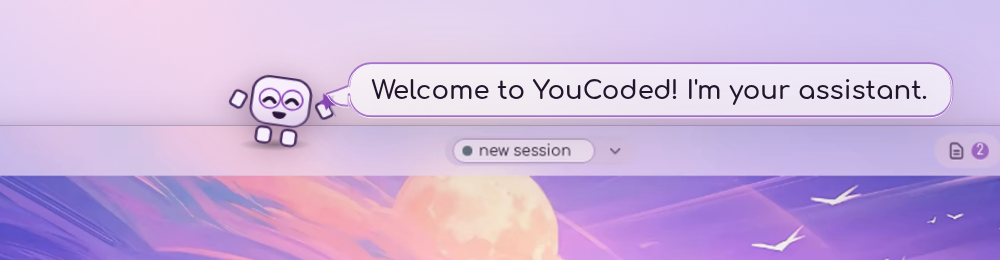
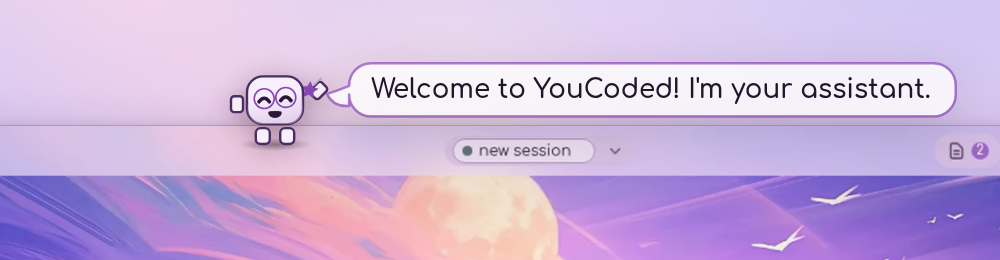
promo: round-four deck — the tail and frost, the four-bar conversations scene, the chess board, two stands moved
Claude-Session: https://claude.ai/code/session_01DfsGpRYprATRqGHC8LEush

Changed region(s): [[0.372, 0.2462, 0.961, 0.4615], [0.217, 0.2769, 0.372, 0.5846]]

diff --git a/scripts/promo/src/beats/Beat7.tsx b/scripts/promo/src/beats/Beat7.tsx
@@ -12,12 +12,12 @@ import { B, LEN, present, inWindow, type BeatModule } from './beat';
 // 2026-09-09: "the 'see status' scene should be a bit shorter and the bubble should be open only
 // while the session switcher is open/visible. then merge the other two into a single 'Tag, search,
 // and filter your previous conversations.' scene"):
-//   1. All Sessions → the switcher drops down with each session's status, and holds 2.8 s (the
-//      scene holds it open that long); the status line is said only while it is up (bars 0–1.6).
+//   1. All Sessions → the switcher drops down with each session's status, and holds 3.8 s (the
+//      scene holds it open that long); the status line is said only while it is up (bars 0–1.75).
 //   2. Resume → the browser with "econ" narrowing it → Organize → the tag → the note, one take at
-//      1.55× under the one line (bars 1.6–4). The drag along the strip is CUT (Destin: "drop this").
-const T_SEARCH = B('b7', 1.6), END = LEN('b7');
-const MENU_AT = 10;                                                                   // local frame the switcher is open
+//      1.55× under the one line (bars 1.75–4). The drag along the strip is CUT (Destin: "drop this").
+const T_SEARCH = B('b7', 1.75), END = LEN('b7');
+const MENU_AT = 6;                                                                   // local frame the switcher is open
 const S1_FROM = markFrame('promo-conversations', 'menu', 'end') - MENU_AT;
 // shot 1 must end BEFORE the Resume click: the line is up only while the switcher is
 if (S1_FROM + T_SEARCH > markFrame('promo-conversations', 'resume', 'start')) throw new Error('the switcher shot runs into the Resume click — hold the menu open longer in the scene');

diff --git a/scripts/promo/src/beats/Beat2.tsx b/scripts/promo/src/beats/Beat2.tsx
@@ -5,7 +5,7 @@ import { Label } from '../Label';
 import { CAPTIONS } from '../captions';
 import { perch } from '../layout';
 import { markFrame, assertClipCovers } from '../marks';
-import { B, LEN, present, inWindow, type BeatModule } from './beat';
+import { B, LEN, present, inWindow, feetAt, type BeatModule } from './beat';
 
 // Beat 2 (4 bars; sixth in the film since Destin's reorder of 2026-09-04): repeatable
 // prompts — the chips, in Cotton Candy Sky. The chip's click release lands three frames
@@ -26,7 +26,8 @@ const Beat2: React.FC = () => (
 //   the reply, top-left; its right edge is ~40 % across so the host stands beyond it
 const END = LEN('b2');
 const P2 = present('b2', [
-  { at: 40, say: 'Save repeatable prompts.', target: inWindow(0.355, 0.867), stand: 'above', face: 'welcome' },
+  // an explicit spot (2026-09-09): 'above' the chip put the feet ON the chip row at 1.35; it stands up-left of the Briefing chip and aims down at it
+  { at: 40, say: 'Save repeatable prompts.', spot: feetAt(0.3, 0.8), target: inWindow(0.355, 0.867), face: 'welcome' },
   // 0.40 → 0.52 at the 1.35 zoom (2026-09-09): the reply runs to half the window now and the host stood on its last words
   { at: 118, say: 'Or entire workflows. No annoying re-explanation needed.', target: inWindow(0.52, 0.16), stand: 'R', face: 'happy', until: END - 8 },
 ], 'cotton-candy-sky', P, END - 8);

diff --git a/scripts/promo/src/beats/Beat5.tsx b/scripts/promo/src/beats/Beat5.tsx
@@ -44,7 +44,8 @@ const M = (mark: string, edge: 'start' | 'end' = 'start') => Math.round((markFra
 //   the re-opened sheet (the viewer fills the right half; the host stands in the empty file-list column left of it)
 //   the project's file grid (the Projects page; the host stands in the gap between the tab row and the search box, pointing down at the cards)
 const P5 = present('b5', [
-  { at: M('attach') + 4, say: 'Drop in a spreadsheet, ask the assistant for a sort.', target: inWindow(0.13, 0.85), stand: 'R', face: 'welcome', until: T_AFTER - 8 },
+  // 0.85 → 0.8 (2026-09-09): at 1.35 the host's feet sat on the composer; it now stands level with the chip's top half
+  { at: M('attach') + 4, say: 'Drop in a spreadsheet, ask the assistant for a sort.', target: inWindow(0.13, 0.8), stand: 'R', face: 'welcome', until: T_AFTER - 8 },
   // re-measured at the 1.35 zoom (2026-09-09): lower in the file-list column (it sat on the two file entries), and
   // right of the tab row on the Projects page (it sat on the end of the Instructions & Memories tab)
   { at: T_AFTER + 4, say: 'View and edit the result together.', target: inWindow(0.58, 0.6), stand: 'L', face: 'happy', until: T_PROJ - 8 },
